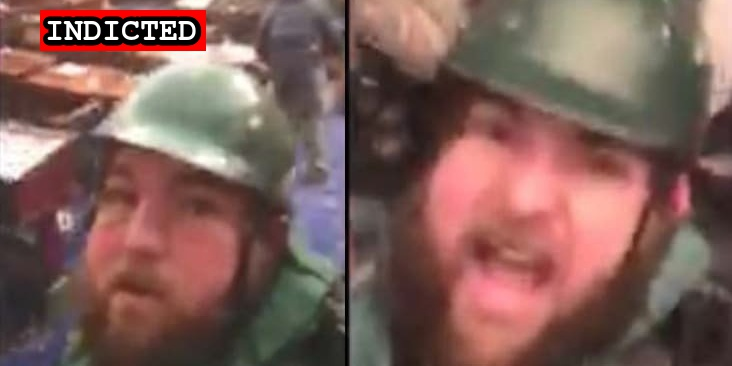
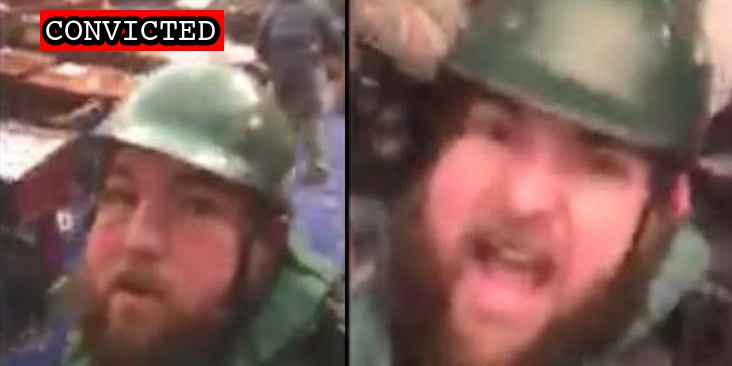
Latest import

Changed region(s): [[0.0301, 0.0, 0.3306, 0.1503]]

diff --git a/docs/_suspects/dale-shalvey.md b/docs/_suspects/dale-shalvey.md
@@ -4,15 +4,18 @@ lastName: Shalvey
 hashtag: GreenPeaPitcher
 aka:
 residence: Pennsylvania
-status: Indicted
+status: Convicted
 date: 2021-02-12
 charged: 2021-02-12
 indicted: 2021-04-30
-convicted:
+convicted: 2022-10-03
+acquitted:
 sentenced:
 dismissed:
 deceased:
 plea_hearing: 2022-10-03
+trial_date:
+trial_type:
 sentencing:
 age: 36
 occupation: Business Owner (Woodworking Shop)
@@ -34,9 +37,19 @@ published: true
 caseNumber: 1:21-cr-334
 videos:
 charges:
+  - code: 18 USC § 111(a)(1)
+    title: Assaulting, resisting, or impeding certain officers or employees
+    url: https://www.law.cornell.edu/uscode/text/18/111
+    felony: true
+  - code: 18 USC § 1512(c)(2),2
+    title: Obstruction of an Official Proceeding (Aiding and Abetting)
+    url: https://www.law.cornell.edu/uscode/text/18/1512
+    felony: true
 sentence:
 ---
 
 - [News Report](https://www.thedailybeast.com/pennsylvania-rioter-dale-shalvey-charged-after-going-through-senate-papers-during-capitol-riot)
 - [Statement of Facts](https://www.justice.gov/usao-dc/case-multi-defendant/file/1379321/download)
 - [Indictment](https://www.justice.gov/usao-dc/case-multi-defendant/file/1473426/download)
+- [Plea Agreement](https://www.justice.gov/usao-dc/case-multi-defendant/file/1540326/download)
+- [Statement of Offense](https://www.justice.gov/usao-dc/case-multi-defendant/file/1540331/download)

diff --git a/docs/_suspects/william-dunfee.md b/docs/_suspects/william-dunfee.md
@@ -1,0 +1,45 @@
+---
+name: William Dunfee
+lastName: Dunfee
+hashtag:
+aka:
+residence: Ohio
+status: Charged
+date: 2022-09-30
+charged: 2022-09-30
+indicted:
+convicted:
+acquitted:
+sentenced:
+dismissed:
+deceased:
+plea_hearing:
+trial_date:
+trial_type:
+sentencing:
+age:
+occupation: Pastor
+affiliations:
+jurisdiction: Federal
+image: /images/preview/william-dunfee.jpg
+suspect: william-dunfee.jpg
+booking:
+courtroom:
+courthouse:
+raid:
+perpwalk:
+quote:
+title: William Dunfee charged on September 30th, 2022
+description: Click for latest case details. Suspects innocent until proven guilty.
+author: seditiontrack
+layout: suspect
+published: false
+caseNumber: 1:22-mj-217
+videos:
+charges:
+sentence:
+---
+
+- [News Report](https://www.nbcnews.com/politics/justice-department/fbi-arrests-pastor-wore-company-jacket-jan-6-pushed-police-line-rcna50898)
+- [Complaint](https://www.justice.gov/usao-dc/case-multi-defendant/file/1540836/download)
+- [Statement of Offense](https://www.justice.gov/usao-dc/case-multi-defendant/file/1540841/download)

diff --git a/docs/_suspects/katharine-morrison.md b/docs/_suspects/katharine-morrison.md
@@ -4,15 +4,18 @@ lastName: Morrison
 hashtag:
 aka: Kate Morrison
 residence: New York
-status: Indicted
+status: Convicted
 date: 2022-02-02
 charged: 2022-02-02
 indicted: 2022-02-02
-convicted:
+convicted: 2022-10-03
+acquitted:
 sentenced:
 dismissed:
 deceased:
-plea_hearing:
+plea_hearing: 2022-10-03
+trial_date:
+trial_type:
 sentencing:
 age:
 occupation:
@@ -34,7 +37,14 @@ published: true
 caseNumber: 1:21-cr-334
 videos:
 charges:
+  - code: 18 USC § 1512(c)(2),2
+    title: Obstruction of an Official Proceeding (Aiding and Abetting)
+    url: https://www.law.cornell.edu/uscode/text/18/1512
+    felony: true
 sentence:
 ---
+
 - [News Report](https://www.whec.com/livingston-county-ny-news/livingston-county-woman-indicted-for-capitol-riot/6426541/)
 - [Indictment](https://www.justice.gov/usao-dc/case-multi-defendant/file/1473421/download)
+- [Plea Agreement](https://www.justice.gov/usao-dc/case-multi-defendant/file/1540346/download)
+- [Statement of Offense](https://www.justice.gov/usao-dc/case-multi-defendant/file/1540351/download)

diff --git a/docs/_suspects/susan-manwaring.md b/docs/_suspects/susan-manwaring.md
@@ -1,19 +1,19 @@
 ---
 name: Susan Manwaring
 lastName: Manwaring
-hashtag: 
+hashtag:
 aka:
-residence: 
-status: Charged
+residence:
+status: Convicted
 date: 2022-09-13
 charged: 2022-09-13
 indicted:
-convicted:
+convicted: 2022-10-05
 acquitted:
 sentenced:
 dismissed:
 deceased:
-plea_hearing:
+plea_hearing: 2022-10-05
 trial_date:
 trial_type:
 sentencing:
@@ -21,7 +21,7 @@ age:
 occupation:
 affiliations:
 jurisdiction: Federal
-image: /images/preview/arrest.jpg
+image: /images/preview/convicted.jpg
 suspect: arrest.jpg
 booking:
 courtroom:
@@ -39,4 +39,7 @@ videos:
 charges:
 sentence:
 ---
-- [Information](https://storage.courtlistener.com/recap/gov.uscourts.dcd.247300/gov.uscourts.dcd.247300.1.0.pdf)
+
+- [Information](https://www.justice.gov/usao-dc/case-multi-defendant/file/1540796/download)
+- [Plea Agreement](https://www.justice.gov/usao-dc/case-multi-defendant/file/1540801/download)
+- [Statement of Offense](https://www.justice.gov/usao-dc/case-multi-defendant/file/1540806/download)

diff --git a/docs/_suspects/tara-stottlemyer.md b/docs/_suspects/tara-stottlemyer.md
@@ -4,15 +4,18 @@ lastName: Stottlemyer
 hashtag: TaraStottlemyer
 aka:
 residence: Pennsylvania
-status: Indicted
+status: Convicted
 date: 2021-07-28
 charged: 2021-07-28
 indicted: 2021-07-28
-convicted:
+convicted: 2022-10-03
+acquitted:
 sentenced:
 dismissed:
 deceased:
-plea_hearing:
+plea_hearing: 2022-10-03
+trial_date:
+trial_type:
 sentencing:
 age:
 occupation:
@@ -36,5 +39,8 @@ videos:
 charges:
 sentence:
 ---
+
 - [News Report](https://www.theintelligencer.net/news/community/2021/09/wife-of-former-wheeling-man-charged-in-capitol-riot-also-arrested/)
 - [Indictment](https://www.justice.gov/usao-dc/case-multi-defendant/file/1473431/download)
+- [Plea Agreement](https://www.justice.gov/usao-dc/case-multi-defendant/file/1540336/download)
+- [Statement of Offense](https://www.justice.gov/usao-dc/case-multi-defendant/file/1540341/download)
